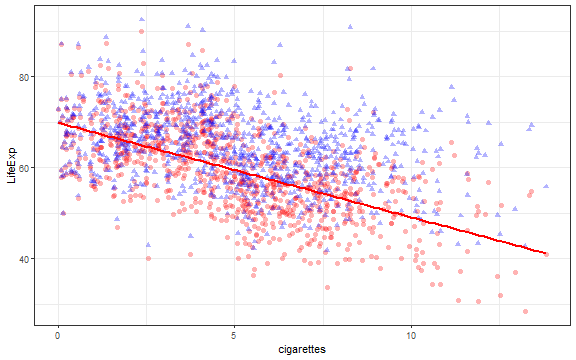
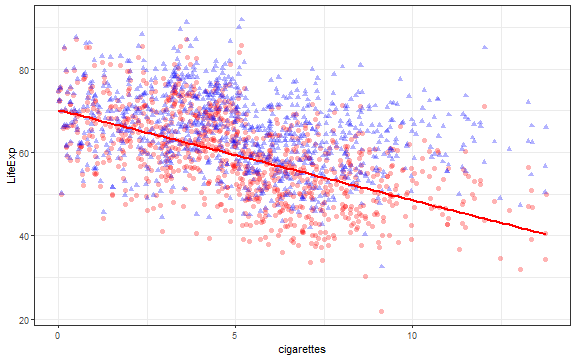
update CF

diff --git a/lec/03-Counterfactuals-and-Selection/03-Counterfactuals-and-Selection.html b/lec/03-Counterfactuals-and-Selection/03-Counterfactuals-and-Selection.html
@@ -77,13 +77,6 @@ name: Overview
 
 (5) [Randomization and Experiments](#section5)
 
-(6) [Distribution of the estimator and Gauss-Markov for MLR](#section6)
-
-(7) [Heteroskedasticity](#section7)
-
-(8) [Testing Multiple `\(\beta\)`'s](#section8)
-
-
 
 
 
@@ -257,7 +250,7 @@ class: MSU
 
 - The red dots are the given data, plotting `\(LifeExp \sim cigarettes\)`
 - The blue triangles are where the points **would be if we could account for** `\(E[\tilde{u}|X]\neq 0\)`
-- Here, `\(E[\tilde{u}|X] = -1.07 \times cigarettes\)`
+- Here, `\(E[\tilde{u}|X] = -1.17 \times cigarettes\)`
 
 ---
 class: MSU
